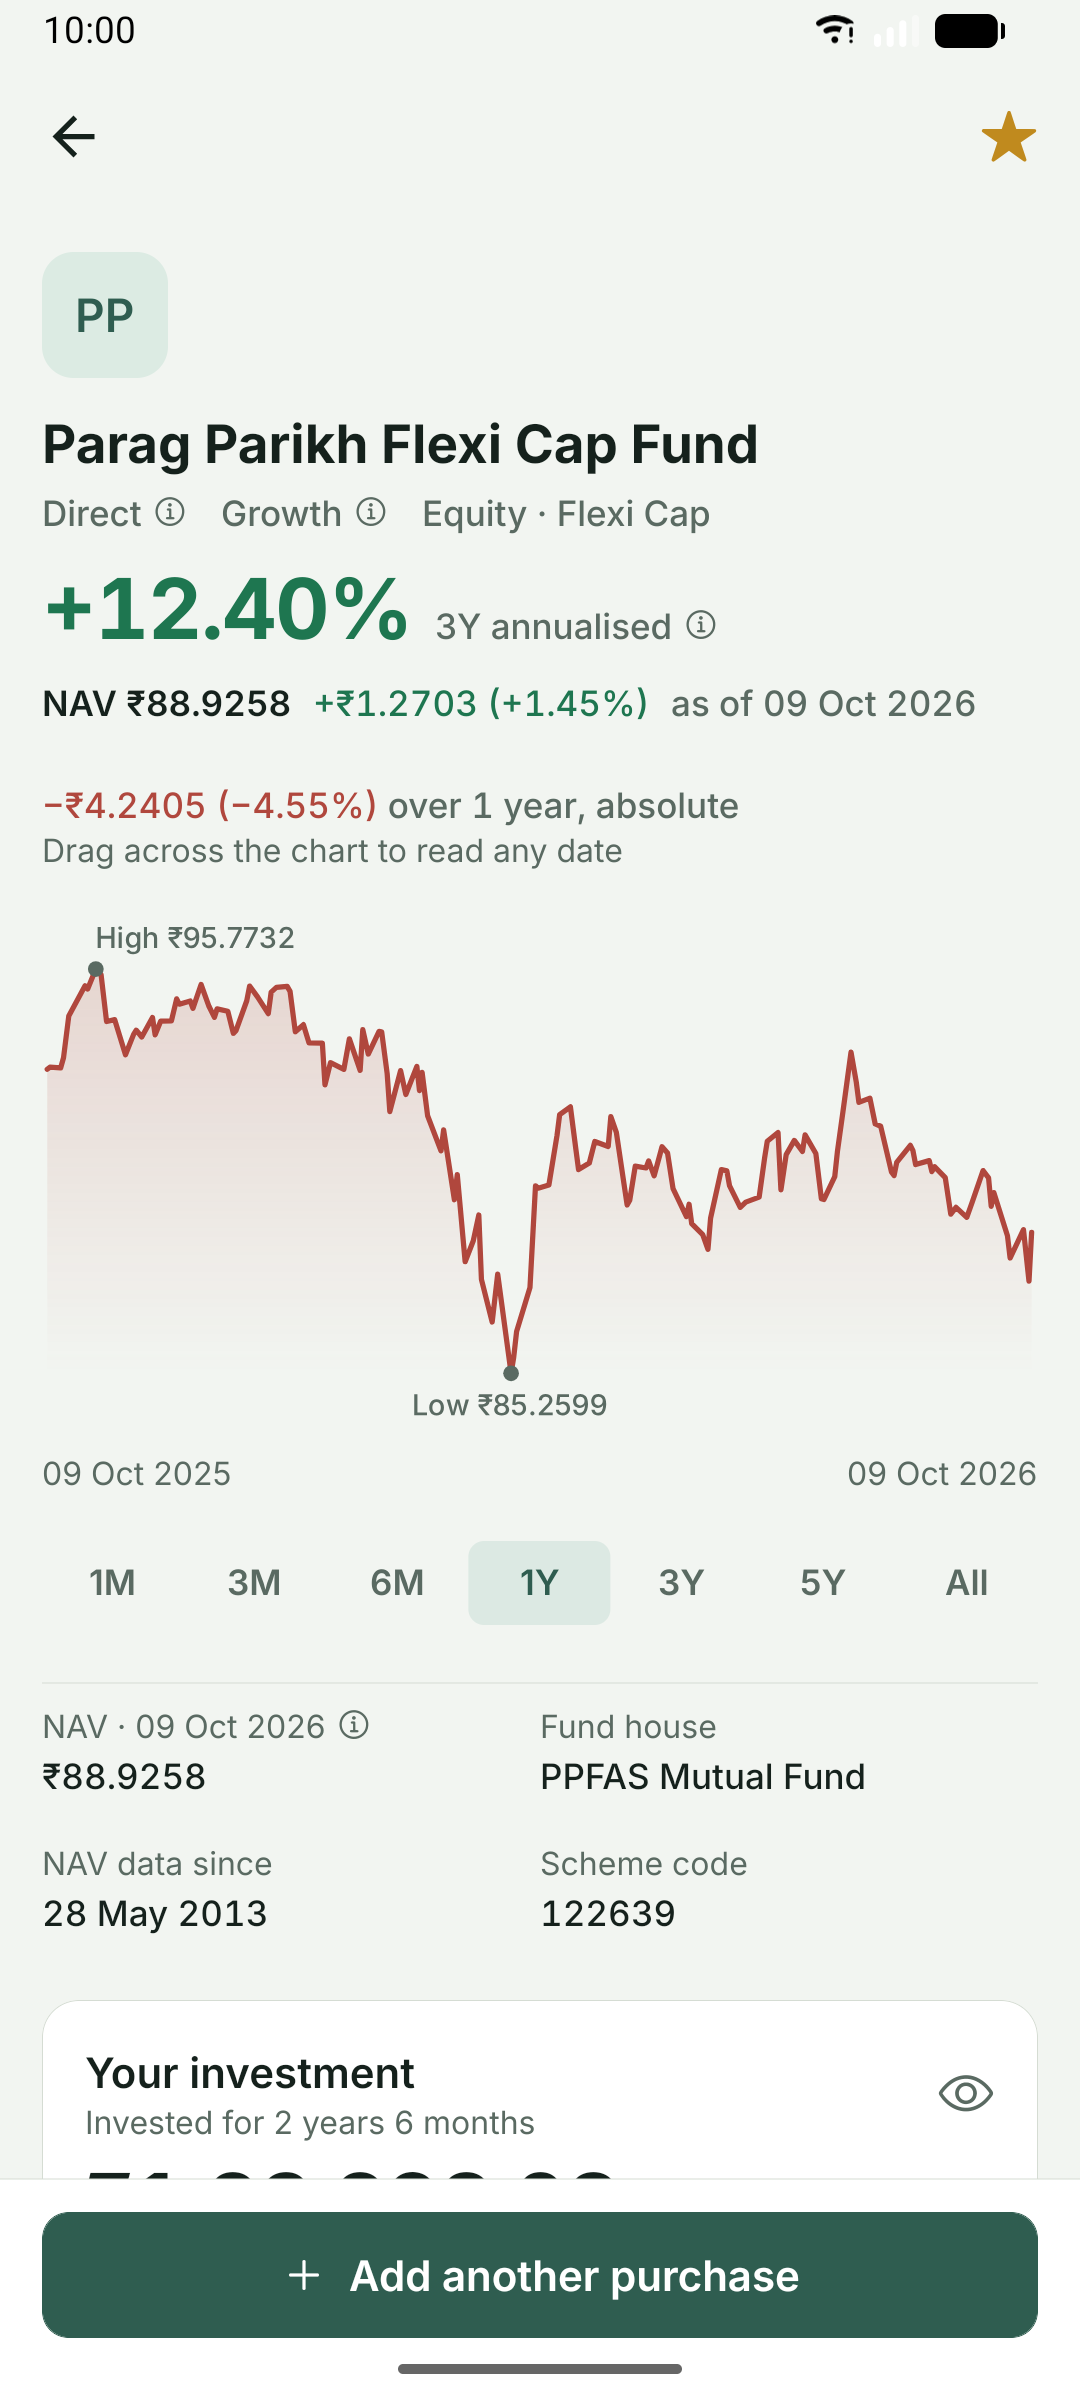
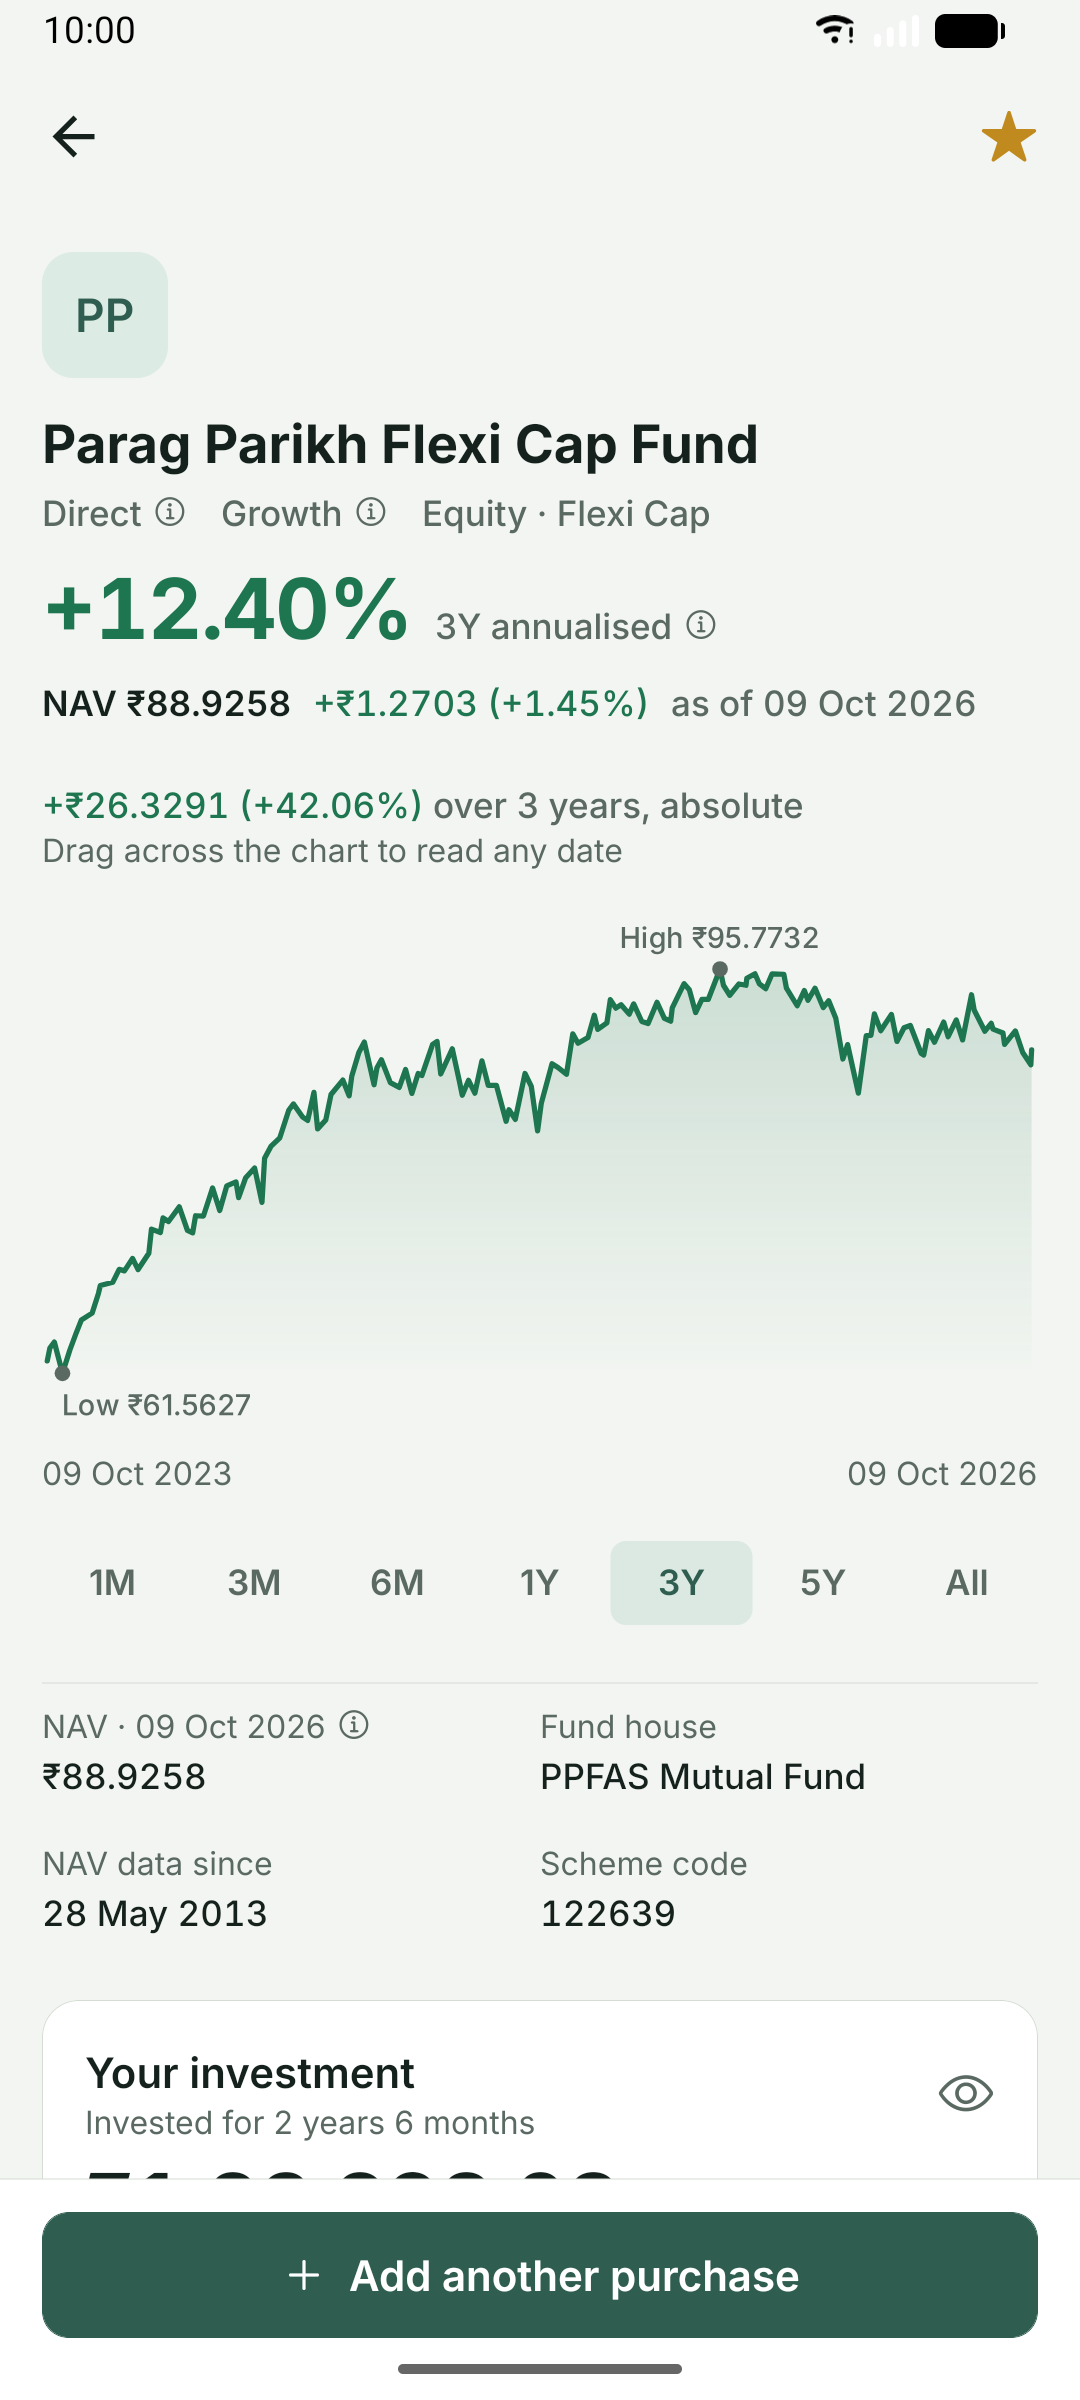
design: the fund chart opens on the headline's period (3Y when available)

diff --git a/src/domain/nav.ts b/src/domain/nav.ts
@@ -256,8 +256,12 @@ export function sliceRange(points: readonly NavPoint[], months: number | null): 
   return points.slice(startIndex);
 }
 
-/** The range a fund screen opens on: 1 year when the history covers it, otherwise all of it. */
+/**
+ * The range a fund screen opens on: the period of its headline return (`headlineReturn`:
+ * 3 years, else 1 year, else all), so the first number and the first chart tell one story.
+ */
 export function defaultChartRange(points: readonly NavPoint[]): ChartRange {
+  if (rangeCovered(points, 36)) return '3Y';
   return rangeCovered(points, 12) ? '1Y' : 'ALL';
 }
 

diff --git a/src/domain/__tests__/nav.test.ts b/src/domain/__tests__/nav.test.ts
@@ -233,7 +233,8 @@ describe('chart range defaults and labels', () => {
   const series = (dates: string[]): NavPoint[] =>
     dates.map((date) => ({ date: date as IsoDate, nav: '10.0000', value: 10 }));
 
-  it('opens on 1Y when the history covers a year, otherwise All', () => {
+  it('opens on the headline period: 3Y, else 1Y, else All', () => {
+    expect(defaultChartRange(series(['2023-01-01', '2026-10-09']))).toBe('3Y');
     expect(defaultChartRange(series(['2025-01-01', '2026-10-09']))).toBe('1Y');
     expect(defaultChartRange(series(['2026-03-01', '2026-10-09']))).toBe('ALL');
   });

diff --git a/docs/BUILD_LOG.md b/docs/BUILD_LOG.md
@@ -440,3 +440,4 @@ The user asked whether the to-do list held anything I'd found myself; mostly it 
 - **P0-5. Platform pass, iOS.** iPhone 17 simulator, iOS 26.5, Expo Go installed by the CLI; screens opened by deep link (`xcrun simctl openurl`), modes switched with `xcrun simctl ui booted appearance` and `content_size`. Everything the app draws matched Android in light, dark and at the largest accessibility size. Platform chrome differs on purpose and stays native: iOS 26's glass capsules on header buttons, centred stack titles, sheet-style modals. One gap fixed: the Add holding sheet had no way to close except a swipe down, so iOS gets a Cancel button in its header (Android keeps its back arrow); a small change to `src/app/_layout.tsx`. Not checked by me, because the simulator can't be tapped from here: screens that need the sample portfolio loaded (Holdings rows, Your investment, Watchlist rows), the star inside its capsule (Expo Go's tools button covers that corner), sheets, swipes, the keyboard and pull to refresh. Those are the user's touch checks.
 - **P1-2. Haptics.** Dragging across a chart ticked on every drawn point: about 57 ticks in the 2.5 s scrub of the screen recording. New `scrubTickKey` in `src/domain/chart.ts` (tested): each point over spans of 100 days or less (1M, 3M), each month over longer ones; the NAV chart also ticks once on reaching its marked high or low. Both charts use it, and the tick moved out of the React state updater (where it could fire twice) into a ref of the last step. Measured on the emulator through `dumpsys vibrator_manager`: a 3 s drag across the 1Y chart now gives 9 ticks (the log aggregates bursts, so this count is approximate). Added a fourth kind, `haptic.warn` (notification warning): Save on an invalid purchase or SIP form, and the confirmations before removing a fund's purchases, one purchase, or replacing saved data with a restore; a finished restore now gives `done`. Never on scrolling, refresh or typing.
 - **P1-5. Backup hardening.** The backup card says "A backup is plain text: anyone with it can see your holdings. Keep it somewhere private." The restore box takes at most `MAX_BACKUP_CHARS` (1,000,000; a 600-purchase backup is about 150,000), and `readBackup` refuses text at that cap before parsing, with its own message (tested). The restore confirmation keeps its counts. SECURITY.md updated. Checked on the emulator.
+- **P1-7. The chart opens on the headline's period.** The hero said "+12.40% 3Y annualised" in green while the chart under it opened on 1Y in red. `defaultChartRange` now follows `headlineReturn`'s order (3Y when the history covers it, else 1Y, else All), so the first number and the first chart tell one story; test updated. README screenshot 02 retaken. The tour GIF still opens on 1Y (recorded before this change); it shows the range buttons, so it's left as is.
